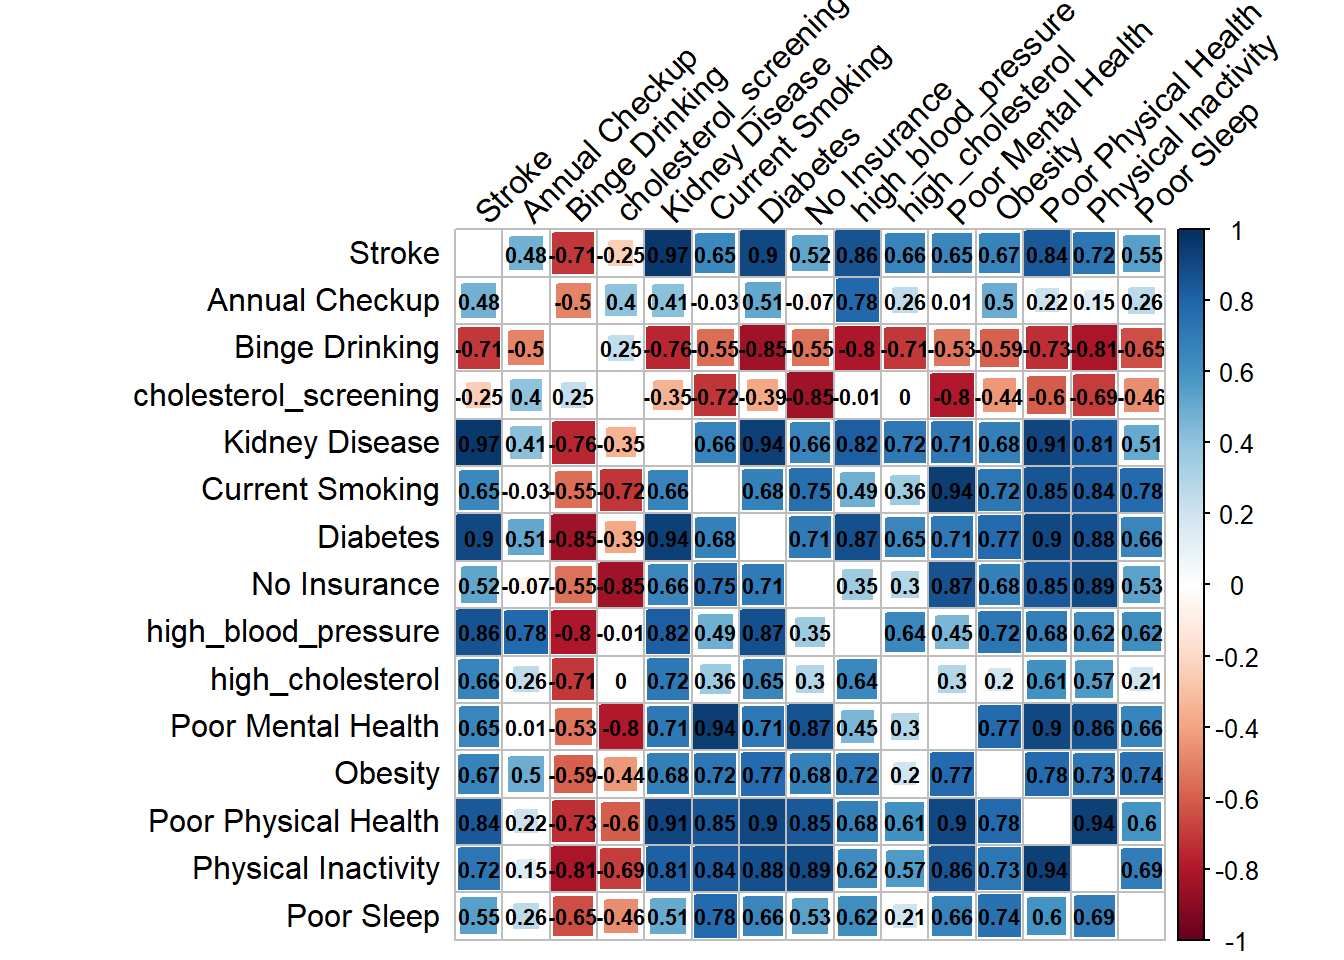
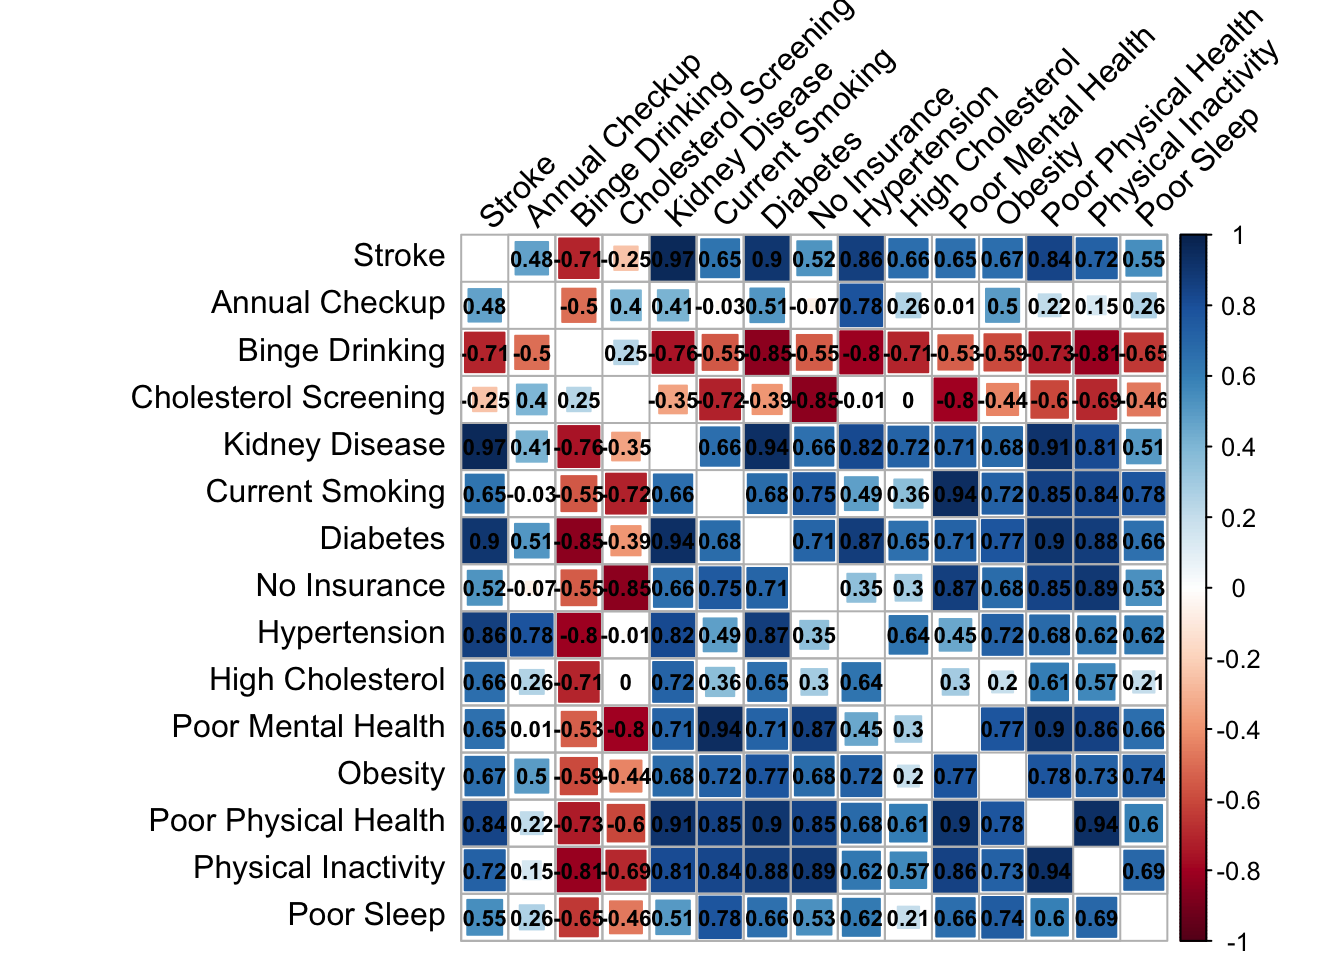
fixing some bugs

Changed region(s): [[0.0938, 0.0, 0.9688, 1.0]]

diff --git a/final_project_report.html b/final_project_report.html
@@ -522,12 +522,12 @@ p = nyc_cvrisk_joined %&gt;%
   enter_fade() +
   exit_fade()
 
-animate(p, fps = 2, height = 600, width = 1000, renderer = gifski_renderer())</code></pre>
+animate(p, fps = 2, height = 600, width = 1000)</code></pre>
 <p><img src="final_project_report_files/figure-html/unnamed-chunk-6-1.gif" /><!-- --></p>
 </div>
 <div id="making-the-animated-scatterplot-for-stroke" class="section level3">
 <h3>Making the animated scatterplot for stroke</h3>
-<p>We created a similar animation for stroke as shown below:</p>
+<p>We created a similar animation for stroke, the code for which is shown here.</p>
 <pre class="r"><code>theme_set(theme_bw())  # pre-set the bw theme.
 pp = nyc_cvrisk_joined_stroke %&gt;%  
   ggplot(aes(x = data_value.y, y = data_value.x, frame = risk_factor)) +
@@ -551,7 +551,7 @@ pp = nyc_cvrisk_joined_stroke %&gt;%
   enter_fade() +
   exit_fade()
 
-animate(pp, fps = 2, height = 600, width = 1000, renderer = gifski_renderer())</code></pre>
+animate(pp, fps = 2, height = 600, width = 1000)</code></pre>
 <p><img src="final_project_report_files/figure-html/unnamed-chunk-7-1.gif" /><!-- --></p>
 </div>
 <div id="making-the-correlation-plot-for-coronary-artery-disease" class="section level3">
@@ -570,6 +570,9 @@ animate(pp, fps = 2, height = 600, width = 1000, renderer = gifski_renderer())</
          &quot;Annual Checkup&quot; = annual_checkup,
          &quot;Binge Drinking&quot; = binge_drinking,
          &quot;Kidney Disease&quot; = chronic_kidney_disease,
+         &quot;High Cholesterol&quot; = high_cholesterol,
+         &quot;Hypertension&quot; = high_blood_pressure,
+         &quot;Cholesterol Screening&quot; = cholesterol_screening,
          &quot;Current Smoking&quot; = current_smoking,
          &quot;Diabetes&quot; = diabetes,
          &quot;No Insurance&quot; = health_insurance,
@@ -595,6 +598,9 @@ animate(pp, fps = 2, height = 600, width = 1000, renderer = gifski_renderer())</
          &quot;Annual Checkup&quot; = annual_checkup,
          &quot;Binge Drinking&quot; = binge_drinking,
          &quot;Kidney Disease&quot; = chronic_kidney_disease,
+         &quot;High Cholesterol&quot; = high_cholesterol,
+         &quot;Hypertension&quot; = high_blood_pressure,
+         &quot;Cholesterol Screening&quot; = cholesterol_screening,
          &quot;Current Smoking&quot; = current_smoking,
          &quot;Diabetes&quot; = diabetes,
          &quot;No Insurance&quot; = health_insurance,
@@ -613,11 +619,13 @@ animate(pp, fps = 2, height = 600, width = 1000, renderer = gifski_renderer())</
 <div id="findings" class="section level1">
 <h1>Findings</h1>
 <p>We made several salient observations about correlation of risk factors with <em>Coronary Artery Disease</em> and <em>Stroke</em>.</p>
-<p>All of the risk factors (with the execption of binge drinking) have a positive association with both coronary heart disease and stroke. The top three risk factors for both outcomes are chronic kidney disease, diabetes and poor physical Health. In addition, many of the risk factors are associated with each other; namely, physical inactivity is heavily correlated with many of the other variables. The risk factors tend to be similarly associated with both coronary heart disease and stroke, with stronger associations with stroke.</p>
+<p>All of the risk factors (with the execption of binge drinking and cholesterol screening) have a positive association with both coronary heart disease and stroke. The top three risk factors for both outcomes are chronic kidney disease, diabetes and poor physical Health. In addition, many of the risk factors are associated with each other; namely, physical inactivity is heavily correlated with many of the other variables. The risk factors tend to be similarly associated with both coronary heart disease and stroke, with stronger associations with stroke.</p>
 <div id="factors-correlated-with-coronary-artery-disease" class="section level3">
 <h3>Factors correlated with coronary artery disease</h3>
 <p>We observed that the following factors were strongly positively correlated with coronary artery disease:</p>
 <ul>
+<li>High Blood Pressure - r = 0.7</li>
+<li>High Cholesterol - r = 0.9</li>
 <li>Chronic Kidney Disease - r = 0.85</li>
 <li>Diabetes - r = 0.71</li>
 <li>Poor Physical Health - r = 0.7</li>
@@ -634,6 +642,8 @@ animate(pp, fps = 2, height = 600, width = 1000, renderer = gifski_renderer())</
 <h3>Factors correlated with stroke</h3>
 <p>We observed that the following factors were strongly positively correlated with coronary artery disease:</p>
 <ul>
+<li>High Blood Pressure - r = 0.9</li>
+<li>High Cholesterol - r = 0.7</li>
 <li>Chronic Kidney Disease - r = 0.97</li>
 <li>Diabetes - r = 0.9</li>
 <li>Poor Physical Health - r = 0.8</li>
@@ -647,6 +657,7 @@ animate(pp, fps = 2, height = 600, width = 1000, renderer = gifski_renderer())</
 <p>We observed that the following factors were strongly negatively correlated with coronary artery disease:</p>
 <ul>
 <li>Binge Alcohol Drinking - r = -0.7</li>
+<li>Cholesterol Screening - r = -0.25</li>
 </ul>
 </div>
 </div>
@@ -665,7 +676,7 @@ animate(pp, fps = 2, height = 600, width = 1000, renderer = gifski_renderer())</
 <h1>Discussion</h1>
 <p>In the process of building this project, we gained several insights about risk factors for heart disease.</p>
 <ul>
-<li><p>In particular, the strength of correlation of lifestyle risk factors with coronary artery disease and stroke indicate the potential for making an impact by targeting these interventions. Interestingly, alcohol intake was negatively correlated with both coronary disease and stroke. This has been observed in several meta-analyses as well. This is however, likely only an association, and not evidence of causation, as discussed in <a href="http://www.onlinejacc.org/content/accj/69/1/25.full.pdf">this article</a>.</p></li>
+<li><p>In particular, the strength of correlation of lifestyle risk factors like physical inactivity and smoking with coronary artery disease and stroke indicate the potential for making an impact by targeting these interventions. Moreover, modifiable risk factors like high blood pressure and high cholesterol are strongly associated with heart disease and stroke and cholesterol screening is inversely associated, suggesting the need to spread awareness about these risk factors so that they can be diagnosed and treated early. Interestingly, alcohol intake was negatively correlated with both coronary disease and stroke. This has been observed in several meta-analyses as well. This is however, likely only an association, and not evidence of causation, as discussed in <a href="http://www.onlinejacc.org/content/accj/69/1/25.full.pdf">this article</a>.</p></li>
 <li><p>Visualization of geographic variation of these risk factors in outcomes in New York City provide insights into target neighborhoods for implementation of cardiovascular risk reduction policies.</p></li>
 <li><p>Visualization of individual risk for heart disease using patient-level inputs, and the ability to understand how modification of one input can impact the risk can be very powerful for people working toward decreasing their risk.</p></li>
 </ul>

diff --git a/index.html b/index.html
@@ -196,7 +196,7 @@ $(document).ready(function () {
   <a href="https://jiyueqin.shinyapps.io/framingham/">Find Your Risk!</a>
 </li>
 <li>
-  <a href="report_link.html">Project Report</a>
+  <a href="final_project_report.html">Project Report</a>
 </li>
 <li>
   <a href="https://heartbeathealth.com/">
@@ -243,7 +243,7 @@ Findings
 </h2>
 <p>All of the risk factors (with the execption of binge drinking) have a positive association with both coronary heart disease and stroke. The top three risk factors for both outcomes are chronic kidney disease, diabetes and poor physical Health. In addition, many of the risk factors are associated with each other; namely, physical inactivity is heavily correlated with many of the other variables. The risk factors tend to be similarly associated with both coronary heart disease and stroke, with stronger associations with stroke.</p>
 <p>The map of NYC allows you to explore the prevlances of risk factors across the city. We observed that most of the risk factors were observed with higher frequency in the Harlem and Bronx area. Unhealthy behaviors like binge alcohol drinking, however, were more prevalent in downtown Manhattan.</p>
-<p>For a detailed explanation of our findings and conclusions, read our Project Report <a href="report_link.html">here</a></p>
+<p>For a detailed explanation of our findings and conclusions, read our Project Report <a href="final_project_report.html">here</a></p>
 <h2>
 Website Overview
 </h2>
